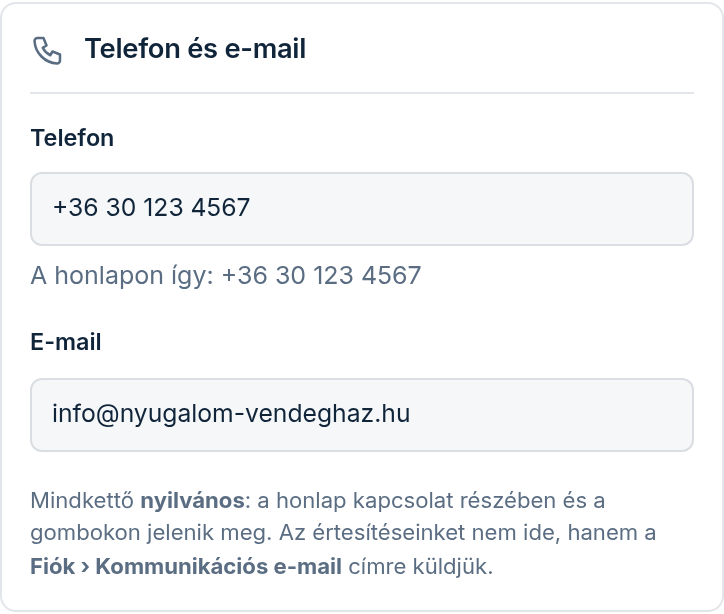
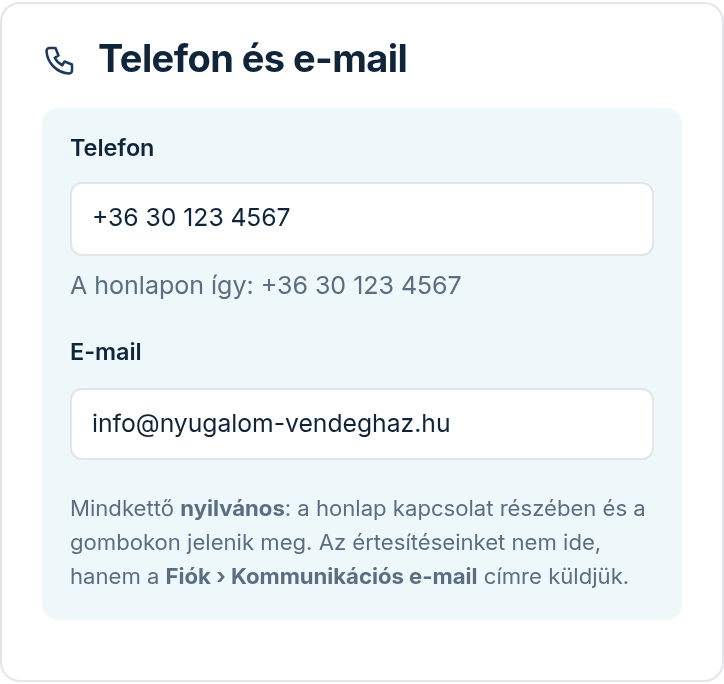
feat(admin): az E nyelv a Foglalások és az Elérhetőség fülön (ADR-0397 ⑨)
Foglalások: a bk-sect címek zónák (adm-zone__h hajszálvonal, a meglévő osztály
és a navy számláló marad, új horgony: #ajanlatra-var, #korabbi-kerelmek); a
„Kiküldött ajánlatok” szakasz-cím 19 px. Tartalomjegyzék szándékosan nincs:
1280-on a 176 px-es sáv a bk-cols szélességét vette el (a csempék dátuma
eltört), telefonon a ragadós csipkesor a döntést tolta lejjebb (ADR-0274 ②).
Elérhetőség (és a közös hely-kártya miatt a Térkép-képernyő): a Cím és a
Telefon/E-mail mezők tónus-tömbben (adm-blk--plain), mint a „Megközelítés”.
Felirat nem változott. Súgó-képek újralőve: admin-bookings/screen.png,
admin-contact/telefon-email.png (offer.png pixelre azonos). Őrök zöldek:
booking-phone, booking-queue-urgency, cancel-confirm, overlap-modal-reach,
booking-offer, unit-delete-confirm, booking-screen, portal-sync-guard,
contact-edit; tudásbázis-őr: PASS.

Claude-Session: https://claude.ai/code/session_0118deYpo8nx5FAG5NaGE2Ne

diff --git a/src/server/contactViews.ts b/src/server/contactViews.ts
@@ -89,14 +89,15 @@ export function placeCard(v: ContactView, lead: string): string {
     `<section class="adm-card" data-place>` +
     `<div class="adm-card__head"><span class="adm-ico">${ic("pin")}</span><h2>${T(lang, "A szállás helye")}</h2>${contactHelp(lang)}</div>` +
     `<p class="adm-lead">${lead}</p>` +
-    `<div class="citui-field"><label class="citui-label" for="pl_addr">${T(lang, "Cím")}</label>` +
+    // ADR-0397 ⑤: the question is a tone block, its fields on the panel colour.
+    `<div class="adm-blk adm-blk--plain"><div class="citui-field"><label class="citui-label" for="pl_addr">${T(lang, "Cím")}</label>` +
     `<div class="pl-row"><input class="citui-input" id="pl_addr" name="address" value="${esc(v.facts.address)}" autocomplete="street-address" maxlength="200"${v.facts.address ? " required" : ""}>` +
     (v.mapsKey
       ? `<button class="citui-btn citui-btn--ghost" type="button" id="pl_find">${ic("search", 16)}<span>${T(lang, "Megkeresem a térképen")}</span></button>`
       : "") +
     `</div>` +
     errLine("pl_addr_err", v.errors, "address", lang) +
-    `<p class="citui-hint pl-where">${T(lang, "Így jelenik meg az oldal tetején, a kapcsolat részben és a Google-nak szóló adatokban.")}</p></div>` +
+    `<p class="citui-hint pl-where">${T(lang, "Így jelenik meg az oldal tetején, a kapcsolat részben és a Google-nak szóló adatokban.")}</p></div></div>` +
     `<input type="hidden" name="lat" id="pl_lat" value="${g ? g.lat : ""}"><input type="hidden" name="lon" id="pl_lon" value="${g ? g.lon : ""}">` +
     map +
     errLine("pl_geo_err", v.errors, "geo", lang) +
@@ -107,7 +108,7 @@ export function placeCard(v: ContactView, lead: string): string {
 function contactFields(v: ContactView): string {
   const lang = v.lang ?? "hu";
   return (
-    `<div class="pl-2">` +
+    `<div class="adm-blk adm-blk--plain"><div class="pl-2">` +
     `<div class="citui-field"><label class="citui-label" for="ct_phone">${T(lang, "Telefon")}</label>` +
     `<input class="citui-input" id="ct_phone" name="phone" type="tel" inputmode="tel" value="${esc(v.facts.phone)}" autocomplete="tel" maxlength="40">` +
     errLine("ct_phone_err", v.errors, "phone", lang) +
@@ -116,7 +117,7 @@ function contactFields(v: ContactView): string {
     `<input class="citui-input" id="ct_email" name="email" type="email" inputmode="email" value="${esc(v.facts.email)}" autocomplete="email" maxlength="160">` +
     errLine("ct_email_err", v.errors, "email", lang) +
     `</div></div>` +
-    `<p class="citui-hint" style="margin:0">${T(lang, "Mindkettő {pub}: a honlap kapcsolat részében és a gombokon jelenik meg. Az értesítéseinket nem ide, hanem a {acct} címre küldjük.", { pub: `<b>${T(lang, "nyilvános")}</b>`, acct: `<b>${T(lang, "Fiók › Kommunikációs e-mail")}</b>` })}</p>`
+    `<p class="citui-hint" style="margin:0 0 10px">${T(lang, "Mindkettő {pub}: a honlap kapcsolat részében és a gombokon jelenik meg. Az értesítéseinket nem ide, hanem a {acct} címre küldjük.", { pub: `<b>${T(lang, "nyilvános")}</b>`, acct: `<b>${T(lang, "Fiók › Kommunikációs e-mail")}</b>` })}</p></div>`
   );
 }
 

diff --git a/src/server/bookingViews.ts b/src/server/bookingViews.ts
@@ -1059,6 +1059,11 @@ export function bookingsSection(d: BookingsTabData, lang = "hu"): string {
     ? `<p class="bk-order">${T(lang, "A sorrendet a válasz-határidő adja: aki hamarabb lejár, az van felül — akkor is, ha később érkezne.")}</p>`
     : `<p class="bk-order">${T(lang, "A sorrendet az érkezés napja adja. (Válasz-határidő nincs beállítva, így nincs mit sürgősség szerint rendezni.)")}</p>`;
 
+  // ADR-0397 (szakasz-hierarchia ⑨): the bk-sect headings are zones; this tab gets NO table
+  // of contents. Measured 2026-10-21: the 176 px side rail took the width of the bk-cols
+  // (the tiles' dates broke over two lines at 1280), and on a phone the sticky chip row
+  // pushed the first request down again — the thing ADR-0274 ② moved everything for.
+  // The tiles already jump to the requests and the calendar.
   return (
     BOOKINGS_STYLE +
     outcomeBanner(d, lang) +
@@ -1070,7 +1075,7 @@ export function bookingsSection(d: BookingsTabData, lang = "hu"): string {
     // kezdődött, a „Visszaigazolom" a hajtás alatt ült. A DOM-sorrend is ez (döntés →
     // naptár → többi); asztalon a rács teszi a naptárat a bal hasábba.
     `<div class="bk-cols"><div class="bk-cols__dec">` +
-    `<h2 class="bk-sect" id="kerelmek">${T(lang, "Döntésre váró kérések")}${
+    `<h2 class="bk-sect adm-zone__h" id="kerelmek">${T(lang, "Döntésre váró kérések")}${
       pend.length ? ` <span class="bk-sect__n">${pend.length}</span>` : ""
     }</h2>` +
     orderNote +
@@ -1085,10 +1090,10 @@ export function bookingsSection(d: BookingsTabData, lang = "hu"): string {
     tiles(d, pend, arrivals, lang) +
     note +
     (offered.length
-      ? `<h2 class="bk-sect">${T(lang, "Ajánlatra vár")}</h2>` +
+      ? `<h2 class="bk-sect adm-zone__h" id="ajanlatra-var">${T(lang, "Ajánlatra vár")}</h2>` +
         offered.map((r) => offeredCard(r, d.expireHours, lang)).join("")
       : "") +
-    `<h2 class="bk-sect">${T(lang, "Korábbi kérések")}</h2>` +
+    `<h2 class="bk-sect adm-zone__h" id="korabbi-kerelmek">${T(lang, "Korábbi kérések")}</h2>` +
     (decided.length
       ? decided.map((r) => historyRow(r, d.expireHours, viewState(d), lang)).join("")
       : `<div class="bk-empty">${T(lang, "Még nincs eldöntött kérés.")}</div>`) +
@@ -1749,6 +1754,10 @@ p.bk-req__cal a{color:var(--citui-link-ink)}
 /* „Kiküldött ajánlatok" — table where it fits, cards on a phone (two layouts) */
 .bk-of{container-type:inline-size;margin-top:22px;background:var(--citui-panel);border:1px solid var(--citui-line);border-radius:16px;padding:16px}
 .bk-of__h{font-size:1.05rem;margin:0 0 4px}
+/* ADR-0397 ⑨ — the E language on this tab: the sent offers are a section (19 px title),
+   the bk-sect headings are zones (hairline after). */
+.adm-pg .bk-of__h{font-size:19px;font-weight:700;letter-spacing:-.015em}
+.bk-sect.adm-zone__h .bk-sect__n{margin-left:0}
 .bk-of__intro{font-size:.86rem;color:var(--citui-muted);margin:0 0 10px;line-height:1.5}
 .bk-of__fs{display:flex;gap:6px;flex-wrap:wrap;margin-bottom:10px}
 .bk-of__fs[hidden]{display:none}
